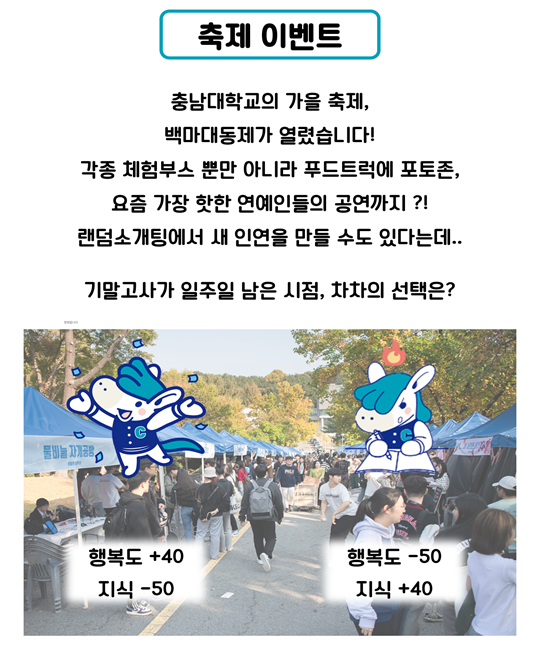
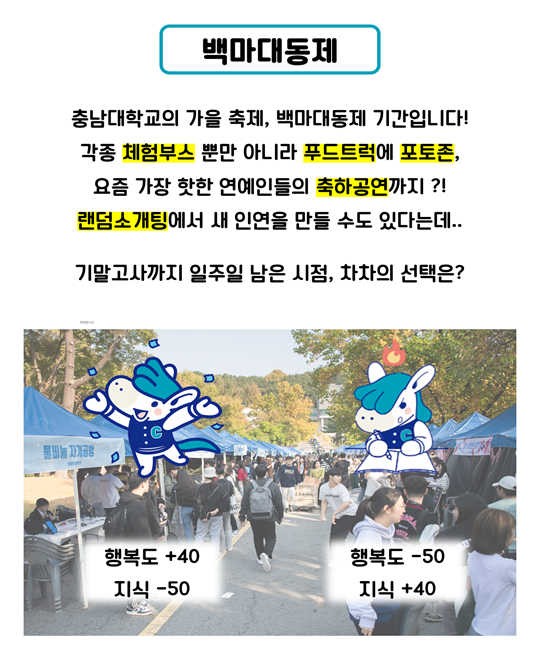
축제 이벤트 화면 구현

diff --git a/src/source/Event.java b/src/source/Event.java
@@ -1,66 +1,107 @@
 package source;
 
-import java.awt.GridLayout;
+import javax.swing.*;
+import java.awt.*;
 
-import javax.swing.JButton;
-import javax.swing.JDialog;
-import javax.swing.JFrame;
-import javax.swing.JLabel;
 
-public class Event { //시험 이벤트 구현 (레벨업과 같은 로직이라 수정이 필요할듯...)
-    
+public class Event { // 시험 이벤트 구현 (레벨업과 같은 로직이라 수정이 필요할듯...)
+
     class FestivalEventDialog extends JDialog {
         private Player player;
+        private JLabel festivalLabel;
 
         public FestivalEventDialog(Player player) {
             super((JFrame) null, "백마 대동제", true);
             this.player = player;
 
-            JLabel festivalLabel = new JLabel("축제 기간입니다!");
-            JButton enjoyFestivalButton = new JButton("축제 즐기러 가기");
-            JButton studyAtLibraryButton = new JButton("도서관에서 공부하기");
+            festivalLabel = new JLabel();
+            ImageIcon festivalIcon = new ImageIcon("src/img/festival_page.png");
+            festivalLabel.setIcon(festivalIcon);
+            
+            JButton enjoyFestivalButton = new JButton(new ImageIcon("src/img/enjoyFestival_button.png"));
+            JButton studyForFinalButton = new JButton(new ImageIcon("src/img/studyForFinal_button.png"));
 
+            // 버튼이 버튼 이미지로만 보이도록 구현
+            enjoyFestivalButton.setBorderPainted(false);
+            studyForFinalButton.setBorderPainted(false);
+            
+            enjoyFestivalButton.setFocusPainted(false);
+            studyForFinalButton.setFocusPainted(false);
+
+            enjoyFestivalButton.setContentAreaFilled(false);
+            studyForFinalButton.setContentAreaFilled(false);
+
+            // 배경 이미지와 버튼 겹치기
+            JLayeredPane layeredPane = new JLayeredPane();
+            layeredPane.setPreferredSize(new Dimension(festivalIcon.getIconWidth() + 50, festivalIcon.getIconHeight() + 100));
+
+            // 배경 이미지를 추가
+            festivalLabel.setBounds(0, 0, festivalIcon.getIconWidth() + 20, festivalIcon.getIconHeight() + 20);
+            layeredPane.add(festivalLabel, new Integer(0));
+
+            // 버튼 추가하고 위치 설정
+            int buttonWidth = 150;
+            int buttonHeight = 40;
+            int buttonSpacing = 100;
+            int buttonX = (festivalIcon.getIconWidth() + 20 - (2 * buttonWidth + buttonSpacing)) / 2;
+            int buttonY = 505;
+
+            enjoyFestivalButton.setBounds(buttonX, buttonY, buttonWidth, buttonHeight);
+            layeredPane.add(enjoyFestivalButton, new Integer(1));
+
+            studyForFinalButton.setBounds(buttonX + buttonWidth + buttonSpacing, buttonY, buttonWidth, buttonHeight);
+            layeredPane.add(studyForFinalButton, new Integer(1));
+
+            // 창에 JLayeredPane 추가
+            setLayout(new BorderLayout());
+            add(layeredPane, BorderLayout.CENTER);
+            
+            //TODO: 시험공부하기 선택 시 '지식'이 올라야 하는데 '돈'이 오름 (??)
             enjoyFestivalButton.addActionListener(e -> {
-            	player.setKnowledge(player.getKnowledge()-50);
-            	player.setHappiness(player.getHappiness()+40);
+                player.setKnowledge(player.getKnowledge() - 50);
+                player.setHappiness(player.getHappiness() + 40);
                 dispose(); // 창 닫기
             });
 
-            studyAtLibraryButton.addActionListener(e -> {
-            	player.setKnowledge(player.getKnowledge()+40);
-            	player.setHappiness(player.getHappiness()-50);
+            studyForFinalButton.addActionListener(e -> {
+                player.setKnowledge(player.getKnowledge() + 40);
+                player.setHappiness(player.getHappiness() - 50);
                 dispose(); // 창 닫기
             });
 
-            setLayout(new GridLayout(3, 1));
-            add(festivalLabel);
-            add(enjoyFestivalButton);
-            add(studyAtLibraryButton);
+            // 창 크기를 이미지 크기에 맞게 조절
+            setSize(festivalIcon.getIconWidth() + 20, festivalIcon.getIconHeight() + 45);
 
             setLocationRelativeTo(null);
-            setSize(300, 150);
             setDefaultCloseOperation(JFrame.DO_NOTHING_ON_CLOSE);
         }
     }
-    
-    public void festivalEvent(Player player) {
-    	FestivalEventDialog fed = new FestivalEventDialog(player);
-    	fed.setVisible(true);
+
+    // 추가된 메서드: 축제 이벤트 발생
+    public void festivalEvent1(Player player) {
+        FestivalEventDialog fed = new FestivalEventDialog(player);
+        fed.setVisible(true);
     }
-    
+
+    public void festivalEvent(Player player) {
+        FestivalEventDialog fed = new FestivalEventDialog(player);
+        fed.setVisible(true);
+    }
+
     public void WiterExam(Player player) {
         int currentLevel = player.getLevel();
         int currentKnowledge = player.getKnowledge();
 
-        if (currentLevel == 1 && currentKnowledge >= 30) { //각 학년 조건에 맞게 진학 여부 결정
+        if (currentLevel == 1 && currentKnowledge >= 30) {
             player.setLevel(2);
-            player.setKnowledge(0);    //지식을 0으로 초기화
+            player.setKnowledge(0);
         } else if (currentLevel == 2 && currentKnowledge >= 60) {
             player.setLevel(3);
-            player.setKnowledge(0); 
+            player.setKnowledge(0);
         } else if (currentLevel == 3 && currentKnowledge >= 90) {
             player.setLevel(4);
-            player.setKnowledge(0); 
-        }                                                   //4학년의 경우에는 어떻게 할건지?
+            player.setKnowledge(0);
+        }
+        // 4학년의 경우에는 어떻게 할건지?
     }
 }

diff --git a/src/ChaChaGraduation.java b/src/ChaChaGraduation.java
@@ -127,22 +127,31 @@ public class ChaChaGraduation extends JFrame {
         if (happiness < 0) {
             happiness = 0; // 행복도가 30 이하이면 자퇴?
         }
+        if (happiness > 100) {
+            happiness = 100;
+        }
     }
 
     private void work() {
-        money += 20;
+        money += 10;
+        happiness -=5;
+    
+    if (happiness > 100) {
+        happiness = 100;
     }
+   }
 
     private void sleep() {
-        happiness += 10;
+        happiness += 5;
+        knowledge -= 1;
         if (happiness > 100) {
             happiness = 100;
         }
     }
 
     private void eat() {
-        money -= 10;
-        happiness += 20;
+        money -= 5;
+        happiness += 5;
         if (money < 0) {
             money = 0;
         }
@@ -152,8 +161,8 @@ public class ChaChaGraduation extends JFrame {
     }
 
     private void play() {
-        money -= 15;
-        happiness += 25;
+        money -= 10;
+        happiness += 15;
         knowledge -= 10;
         if (money < 0) {
             money = 0;
@@ -199,7 +208,7 @@ public class ChaChaGraduation extends JFrame {
     }
 
     public void enjoyFestival() {
-        happiness += 40;
+        happiness += 20;
         knowledge -= 50;
 
         if (happiness > 100) {
@@ -209,7 +218,7 @@ public class ChaChaGraduation extends JFrame {
 
     public void studyAtLibrary() {
         happiness -= 50;
-        knowledge += 40;
+        knowledge += 20;
 
         if (happiness > 100) {
             happiness = 100;
@@ -233,8 +242,8 @@ class Level {
             currentLevel++;
             knowledgeThreshold += 30;
 
-            // Knowledge가 300 이상이면 장학금 지급
-            if (knowledge >= 300 && !scholarshipAwarded) {
+            // Knowledge가 95 이상이면 장학금 지급
+            if (knowledge >= 95 && !scholarshipAwarded) {
                 JOptionPane.showMessageDialog(chaChaGraduation, "레벨 업 성공! & 장학금 지급!");
                 chaChaGraduation.addMoney(200);
                 scholarshipAwarded = true;

diff --git a/src/source/TimeManager.java b/src/source/TimeManager.java
@@ -52,16 +52,24 @@ public class TimeManager {
     
     private void changeSeason() {
     	if (getSeason() == 3) { //가을 -> 겨울 계절 변경시 이벤트 발생
-            //showFestivalEvent();
+            showFestivalEvent(PlayerId);
             //festivalEventOccurred = true; // 이벤트 발생 여부 업데이트
         } else {
             //festivalEventOccurred = false; // 축제 이벤트를 초기화하여 다음 계절에도 발생하도록 함
         }
         setSeason((getSeason() % 4) + 1); // 계절이 순환하도록 함
     }
+    
+    private void showFestivalEvent(String playerId) {
+        // PlayerId를 사용하여 Player 객체 생성
+        Player player = new Player(playerId);
+        
+        Event festivalEvent = new Event();
+        festivalEvent.festivalEvent(player);
 
 //    private void showFestivalEvent() {
 //        Event festivalEvent = new Event();
 //        festivalEvent.festivalEvent(PlayerId);
 //    }
+    }
 }
